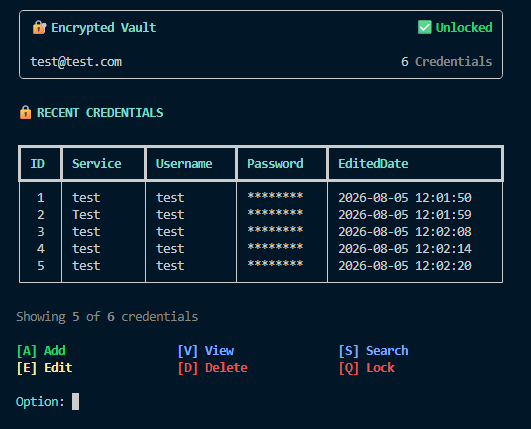
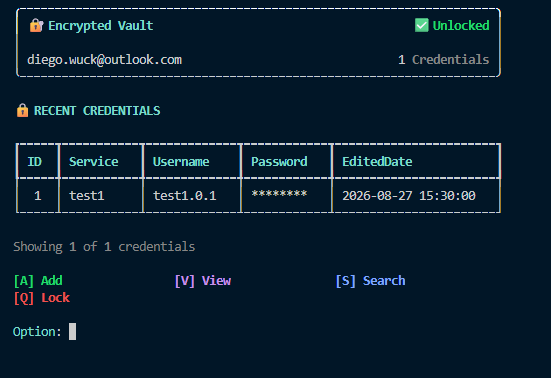
Made the edit view work.

diff --git a/src/interface/vault_interface.py b/src/interface/vault_interface.py
@@ -58,7 +58,7 @@ def vault_options():
     option_table.add_column(min_width=23)
     option_table.add_column(min_width=23)
 
-    option_table.add_row("[bold bright_green][A] Add[/]", "[bold bright_blue][V] View[/]", "[bold bright_blue][S] Search[/]")
+    option_table.add_row("[bold bright_green][A] Add[/]", "[bold magenta][V] View[/]", "[bold bright_blue][S] Search[/]")
     option_table.add_row("[bold red][Q] Lock[/]", "", "")
 
     CONSOLE.print(option_table)
@@ -317,7 +317,7 @@ def option_v_view_password_options() -> str:
 
     CONSOLE.print(panel)
 
-    return Prompt.ask("\n[bright_cyan]Option[/]", choices=["r", "r", "d", "b"], case_sensitive=False, show_choices=False)
+    return Prompt.ask("\n[bright_cyan]Option[/]", choices=["r", "e", "d", "b"], case_sensitive=False, show_choices=False)
 
 def option_v_view_password_handler(data: list) -> str:
     option_v_view_password_header()
@@ -358,9 +358,9 @@ def option_v_edit_item_header():
 
 def option_v_edit_main_view(data: list):
 
-    service, username, comment = data
+    service, username, comment = data[0]
 
-    table = Table()
+    table = Table.grid(expand=True)
 
     table.add_column()
     table.add_column()
@@ -380,7 +380,7 @@ def option_v_edit_main_view(data: list):
     CONSOLE.print(panel)
 
 def option_v_edit_option():
-    return Prompt.ask("\n[bright_cyan]Option[/]", choices=["b", 1, 2, 3, 4], case_sensitive=False, show_choices=False).lower()
+    return Prompt.ask("\n[bright_cyan]Option[/]", choices=["b", "1", "2", "3", "4"], case_sensitive=False, show_choices=False).lower()
 
 class Edit_data:
     def object_one(title, value):

diff --git a/src/vault_logic.py b/src/vault_logic.py
@@ -5,6 +5,7 @@ import src.errors as errors
 from src.interface.helper_functions import clear_screen, exit_program, print_copy
 from src.vault_services.add_items import add_item_to_database as add_items
 import src.vault_services.view_items as view_items
+import src.vault_services.edit as edit
 import math
 import pyperclip
 
@@ -123,7 +124,8 @@ def password_item_flow(choice: str, encryption_key: bytes, data: list[tuple], id
                         break
                     
         case "e":
-            pass
+            edit.main(cred_id=id_choice)
+
         case "d":
             if vault_interface.view_password_delete_confirmation() == "y":
                 view_items.delete_item(cred_id=id_choice)

diff --git a/src/storage_logic.py b/src/storage_logic.py
@@ -48,7 +48,7 @@ def search_data(table_name: str, table_column: str, data_to_be_searched: str) ->
     except errors.TableError as table_error:
         raise errors.TableError(f"No such table: {table_name}") from table_error
 
-def searcher(columns: list, column: tuple, data_to_search: str):
+def searcher(columns: list, column: tuple, data_to_search: str) -> list[tuple] | None:
 
     if not isinstance(column, tuple):
         raise errors.WrongDataTypeTuple("Column isn't a tuple.")

diff --git a/src/storage.py b/src/storage.py
@@ -95,7 +95,7 @@ class Search_data:
             raise errors.TableError(f"No such table: {table}") from table_error
 
     @staticmethod
-    def searcher(table: str, columns: list, column: tuple, data_to_search: str, database_name: str):
+    def searcher(table: str, columns: list, column: tuple, data_to_search: str, database_name: str) -> list[tuple] | None:
 
         try:
             if not isinstance(column, tuple):

diff --git a/src/vault_services/edit.py b/src/vault_services/edit.py
@@ -1,6 +1,10 @@
 import src.interface.vault_interface as vault_interface
 import src.storage_logic as storage_logic
 
-def main():
-    data = 
+def main(cred_id: int):
+    data = storage_logic.searcher(
+        columns=["Service", "Username", "comment"],
+        column=("cred_id",),
+        data_to_search=cred_id
+    )
     vault_interface.option_v_edit_handler(data=data)
